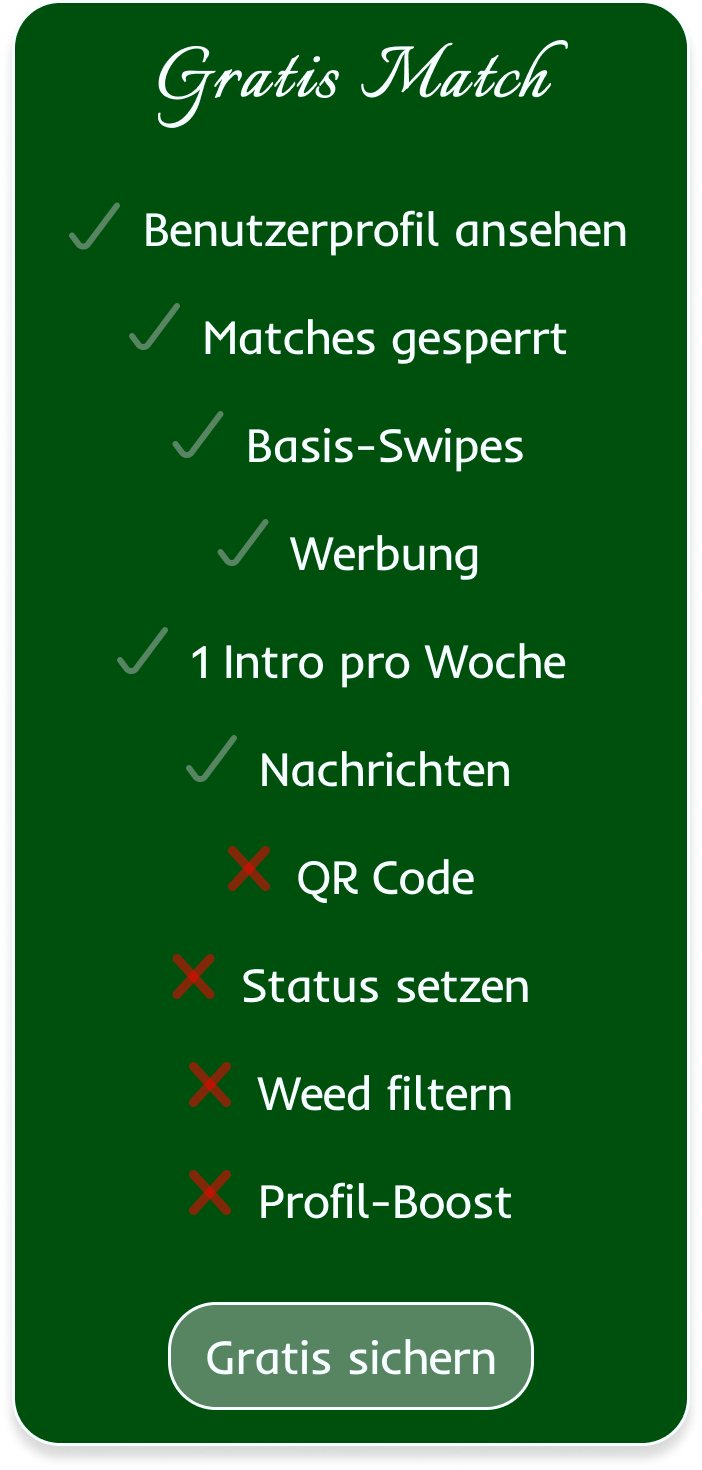
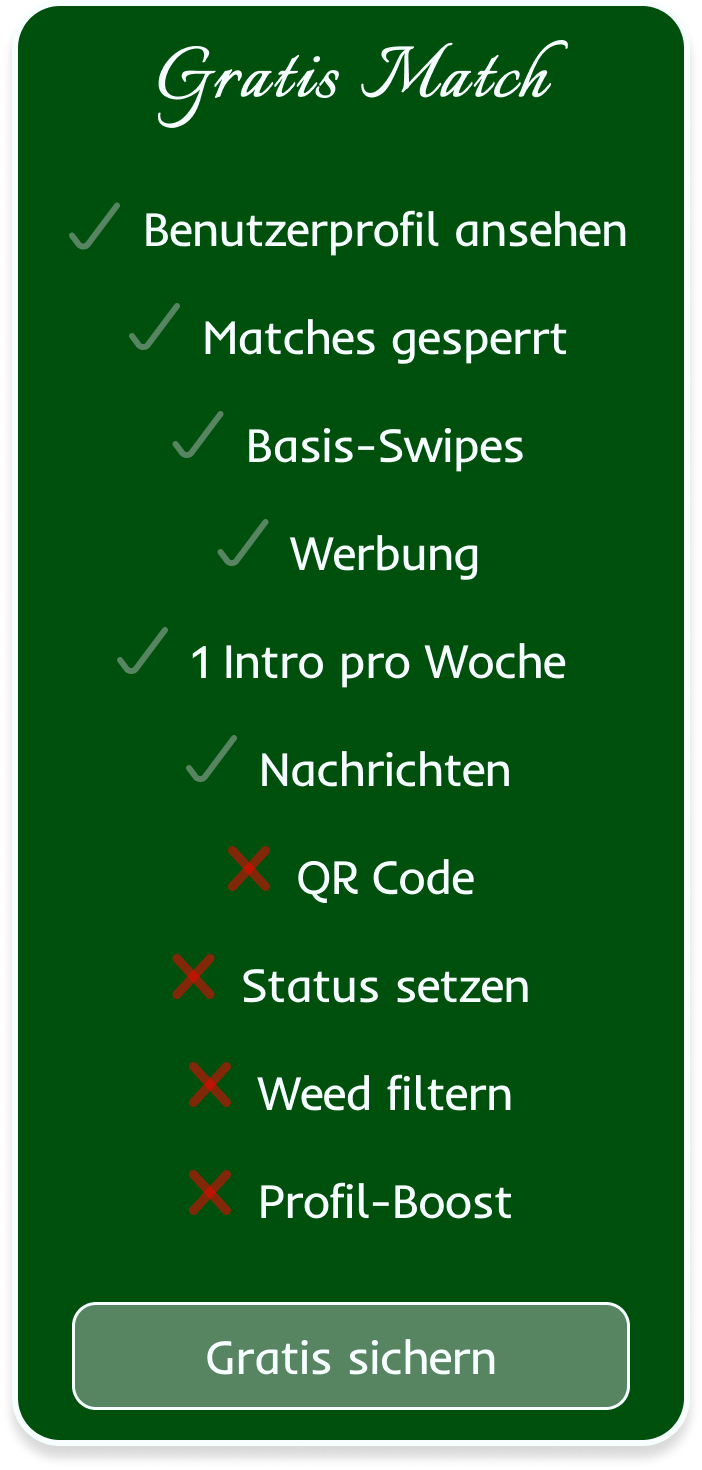
subs update

diff --git a/style.css b/style.css
@@ -786,7 +786,7 @@ body {
 .phone-mockup {
     position: relative;
     width: clamp(180px, 18vw, 240px);
-    border: 6px solid #000000;
+    border: 2px solid #000000;
     border-radius: clamp(20px, 3vw, 36px);
     overflow: hidden;
     filter: drop-shadow(0 8px 8px rgba(0, 0, 0, 0.2));
@@ -1014,7 +1014,7 @@ body {
     width: 160px;
     flex-shrink: 0;
 
-    border: 3px solid #000000;
+    border: 2px solid #000000;
     border-radius: 26px;
 
     overflow: hidden;
@@ -1132,7 +1132,7 @@ body {
 
     background: #00500D;
 
-    border: 1px solid #F6FEFF;
+    border: 2px solid #F6FEFF;
     border-radius: 16px;
 
     display: grid;
@@ -1729,7 +1729,7 @@ body {
 .intro-video-frame {
 
     width: 200px;
-    border: 1px solid #000;
+    border: 2px solid #000;
     border-radius: 26px;
     overflow: hidden;
 
@@ -1981,7 +1981,7 @@ body {
     width: 200px;
     height: auto;
 
-    border: 1px solid #000;
+    border: 2px solid #000;
     border-radius: 26px;
     overflow: hidden;
 
@@ -2791,6 +2791,7 @@ body {
     width: 200px;
     height: auto;
     object-fit: contain;
+
 }
 
 .subscription-desktop img,
